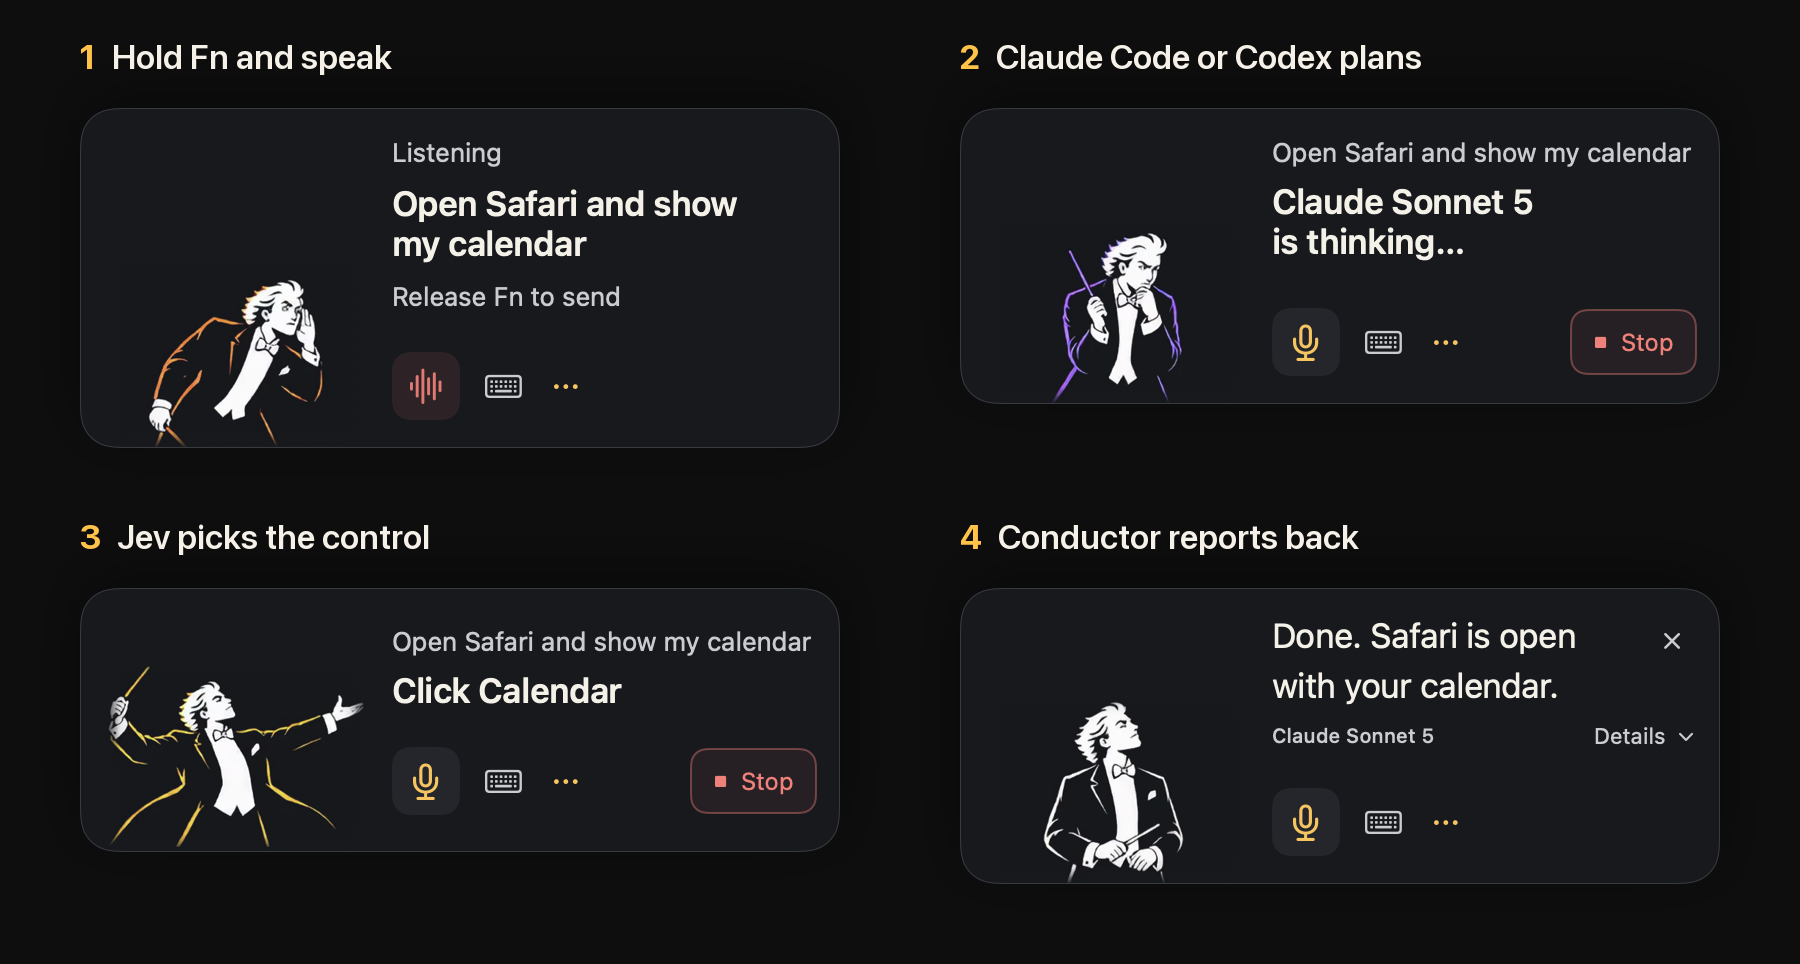
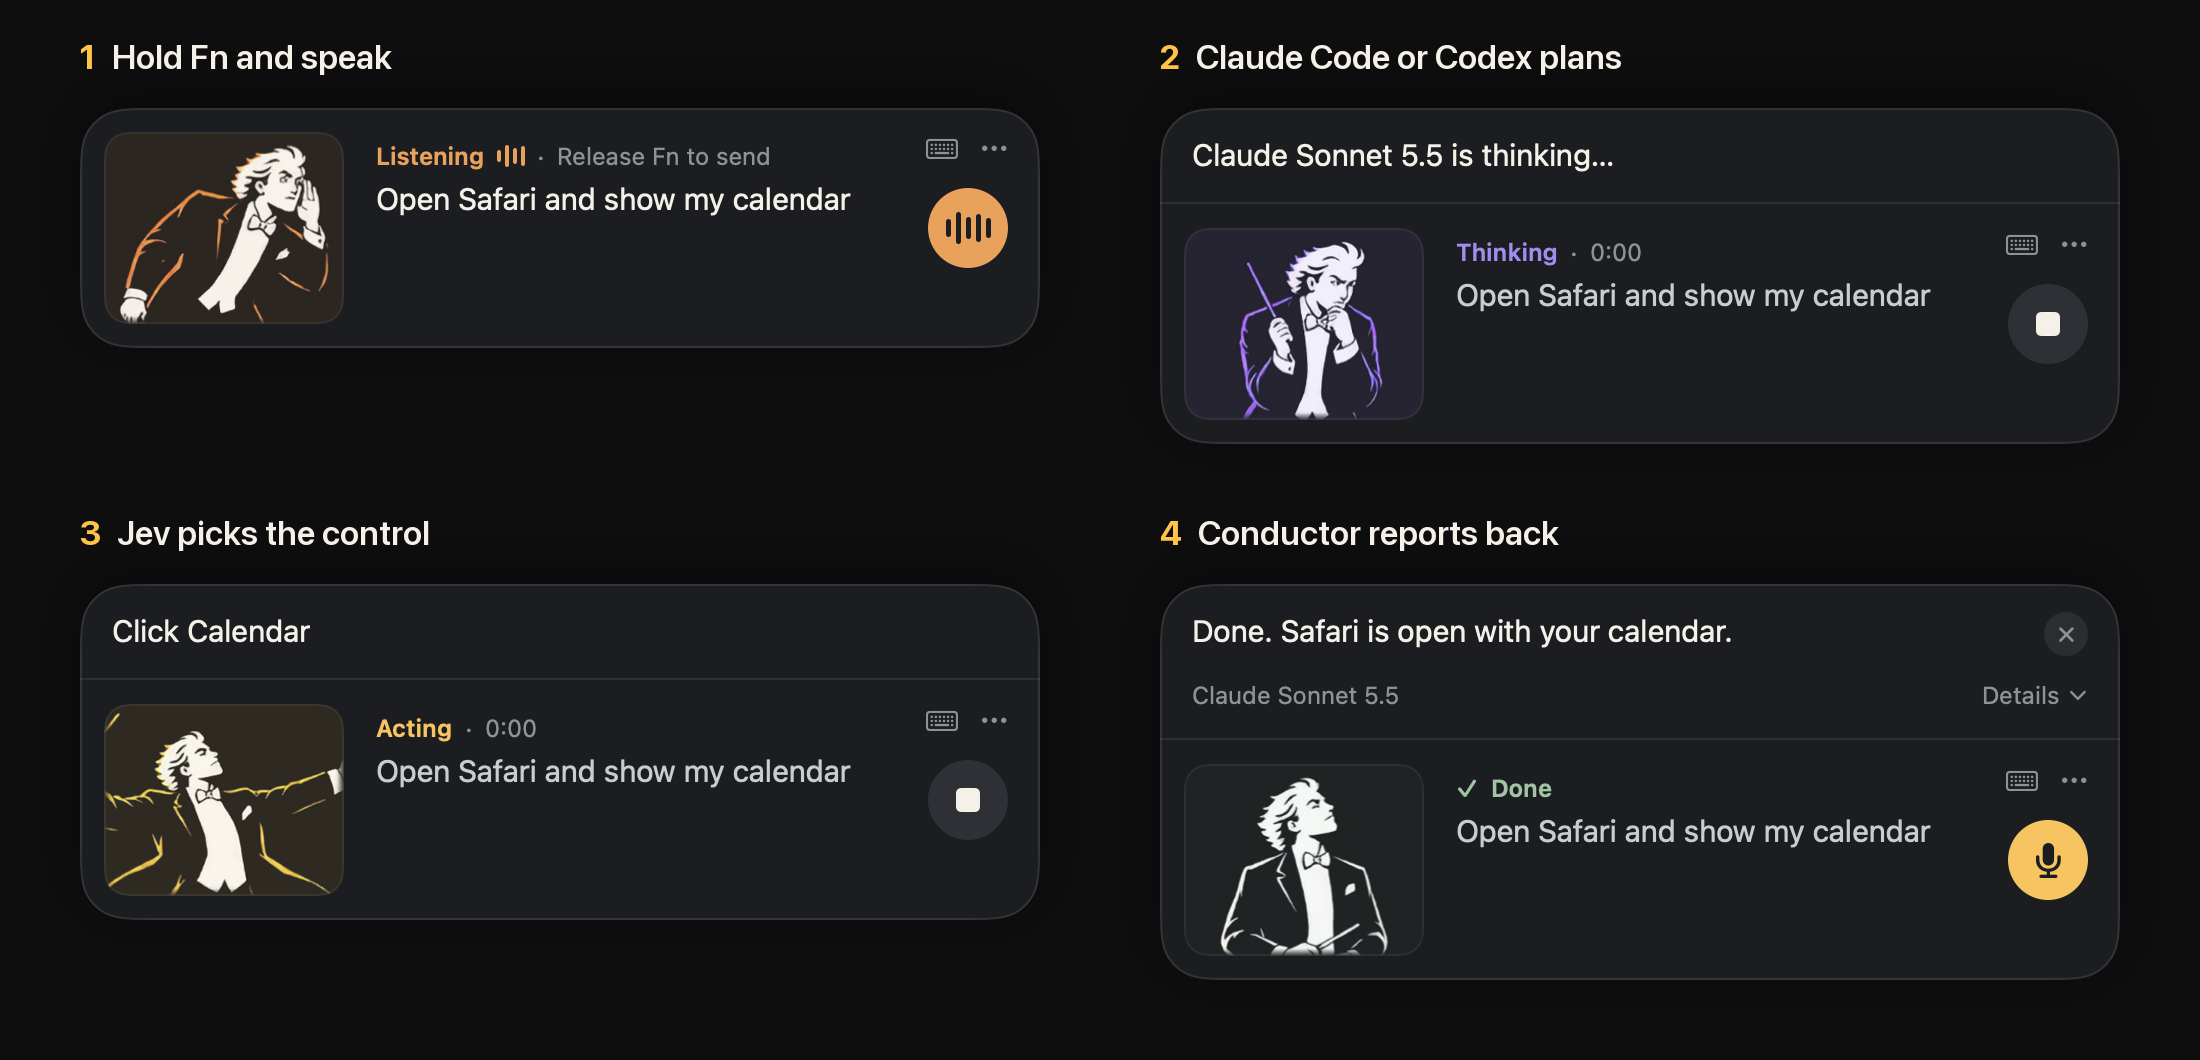
Refresh the README flow image for the new panel and name Sonnet 5.5
The four-step image now shows the fixed-bar panel with Claude Sonnet 5.5.
A hidden comment marks where the demo video goes.

diff --git a/README.md b/README.md
@@ -8,9 +8,11 @@
 
 Conductor lets you run your Mac by voice. You hold Fn, say what you want, and Claude Code or Codex carries it out across your apps. When a task needs a specific button or field, TypeSafe's Jev picks it.
 
-I built it on top of [Jev Voice by TypeSafe](https://github.com/ronadin2002/jev-cua) because I wanted to run my Claude and Codex sessions, and the rest of my Mac, by voice without approving every step. 
+I built it on top of [Jev Voice by TypeSafe](https://github.com/ronadin2002/jev-cua) because I wanted to run my Claude and Codex sessions, and the rest of my Mac, by voice without approving every step.
 
-![Four Conductor panels: listening to "Open Safari and show my calendar", Claude Sonnet 5 thinking, Jev clicking Calendar, and the answer "Done. Safari is open with your calendar."](assets/flow.png)
+<!-- Demo video: upload it through GitHub's web editor and paste its user-attachments link on its own line here. -->
+
+![Four Conductor panels: listening to "Open Safari and show my calendar", Claude Sonnet 5.5 thinking, Jev clicking Calendar, and the answer "Done. Safari is open with your calendar."](assets/flow.png)
 
 ## What it does
 
